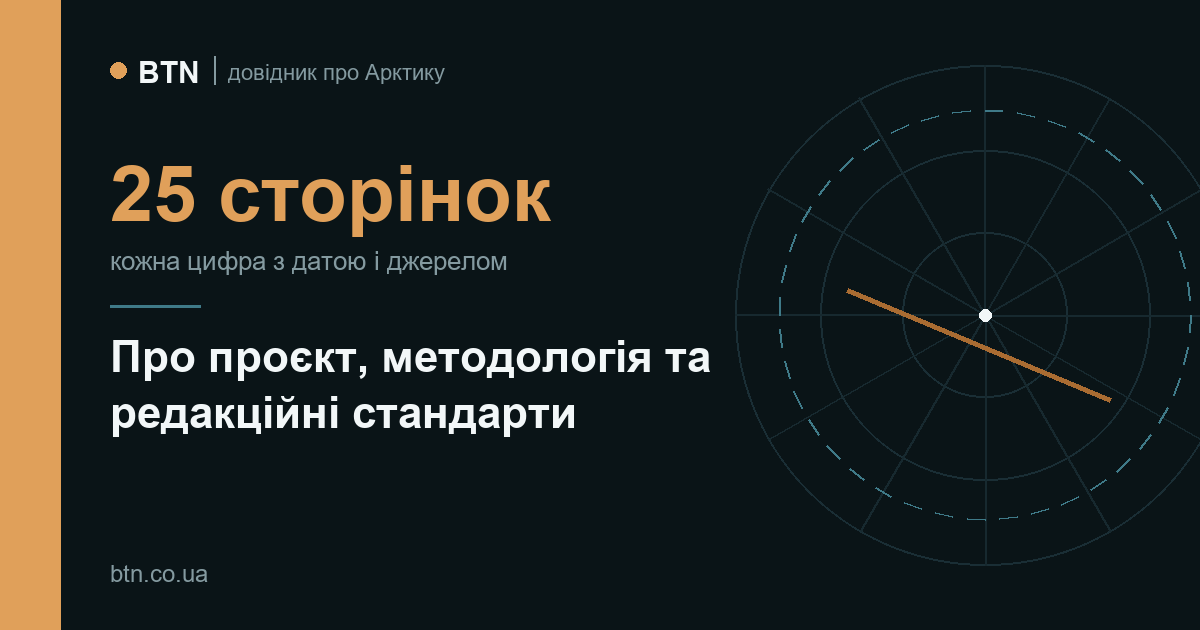
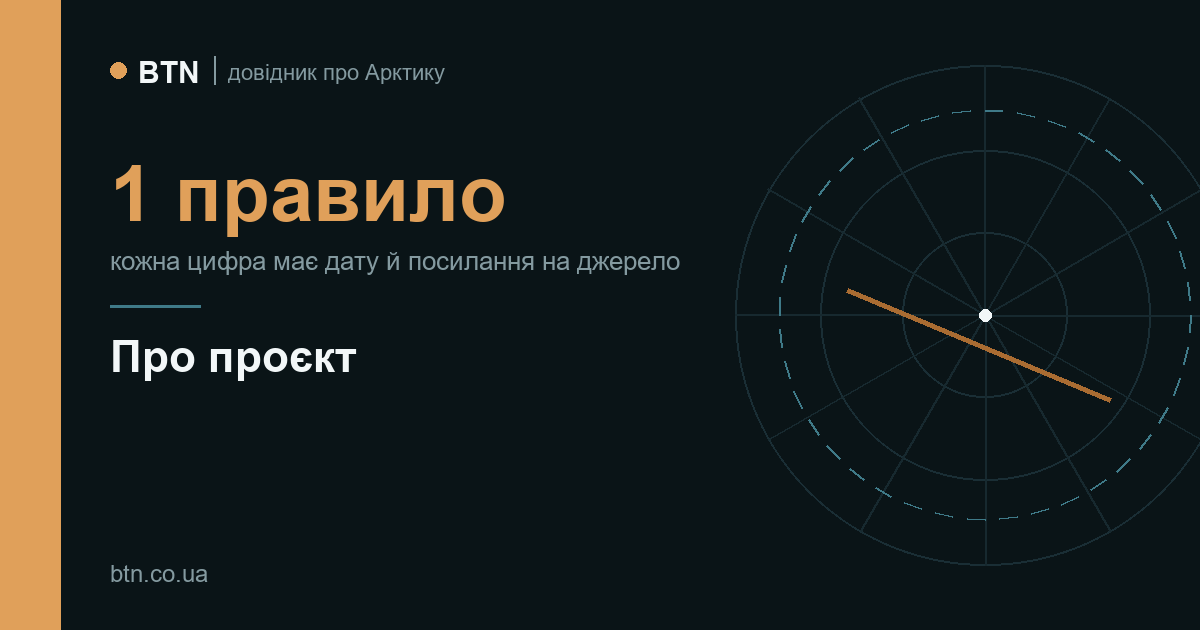
Про проєкт: коротка версія без службових інструкцій; прибрано заглушку на контактах і коментарі в robots.txt

Changed region(s): [[0.0925, 0.2413, 0.555, 0.4524], [0.0925, 0.6333, 0.4933, 0.6937], [0.3083, 0.5429, 0.5858, 0.6032]]

diff --git a/pro-proekt/index.html b/pro-proekt/index.html
@@ -3,12 +3,12 @@
 <head>
 <meta charset="utf-8">
 <meta name="viewport" content="width=device-width, initial-scale=1">
-<title>Про проєкт, методологія та редакційні стандарти — BTN, довідник</title>
-<meta name="description" content="Як «BTN» працює з даними: ієрархія джерел, обов'язкова дата біля кожного числа, розділ обмежень на кожній сторінці, порядок виправлень.">
+<title>Про проєкт — BTN, довідник</title>
+<meta name="description" content="BTN — україномовний довідник про Арктику. Як ми працюємо з джерелами, як виправляємо помилки і хто робить проєкт.">
 <link rel="canonical" href="https://btn.co.ua/pro-proekt/">
 <meta property="og:type" content="website">
-<meta property="og:title" content="Про проєкт, методологія та редакційні стандарти">
-<meta property="og:description" content="Ієрархія джерел, дата біля кожного числа, розділ обмежень на кожній сторінці, порядок виправлень.">
+<meta property="og:title" content="Про проєкт BTN">
+<meta property="og:description" content="Україномовний довідник про Арктику: як ми працюємо з джерелами і виправляємо помилки.">
 <meta property="og:url" content="https://btn.co.ua/pro-proekt/">
 <meta property="og:locale" content="uk_UA">
 <meta property="og:site_name" content="BTN">
@@ -23,7 +23,7 @@
 <link rel="stylesheet" href="/assets/style.css">
 <script type="application/ld+json">
 {"@context":"https://schema.org","@type":"AboutPage",
-"name":"Про проєкт, методологія та редакційні стандарти",
+"name":"Про проєкт BTN",
 "url":"https://btn.co.ua/pro-proekt/",
 "inLanguage":"uk",
 "isPartOf":{"@id":"https://btn.co.ua/#website"},
@@ -62,141 +62,29 @@
 <main class="wrap">
   <p class="crumbs"><a href="/">Головна</a><span>/</span>Про проєкт</p>
 
-  <h1>Про проєкт, методологія та редакційні стандарти</h1>
+  <h1>Про проєкт</h1>
 
-  <p class="lead">«BTN» — україномовний довідник про Арктику: економічний потенціал регіону, міжнародне право й геополітика, історія та становище корінних народів, стан довкілля.</p>
+  <p class="lead">BTN — україномовний довідник про Арктику: економіка регіону, міжнародне право й геополітика, корінні народи, довкілля. Назва складається з перших літер трьох арктичних регіонів: Баренц, Таймир, Нунавут.</p>
 
-  <div class="answer">
-    <span class="label">Головне правило</span>
-    <p>Кожне число на цьому сайті супроводжується <b>роком</b> і <b>назвою організації, що його опублікувала</b>, просто в реченні, яке це число несе. Кожне зовнішнє джерело — <b>клікабельне посилання</b> на конкретний документ, а не назва прозою. Кожна сторінка з цифрами має розділ <b>«Обмеження цих даних»</b>.</p>
-  </div>
-
-  <h2 id="nazva">Що означає BTN</h2>
-
-  <p><b>BTN — Баренц, Таймир, Нунавут.</b> Три точки, що задають охоплення проєкту: європейський сектор Арктики, сибірський і північноамериканський. Назва описує межі теми, а не позицію щодо неї.</p>
-
-  <p>Кожен із трьох секторів представлений матеріалами. Європейський — <a href="/heopolityka/shpitsberhen/">Шпіцберген</a> і <a href="/narody/saami/">саамські території</a> Норвегії, Швеції та Фінляндії. Сибірський — <a href="/dovkillia/norylsk-2020/">Норильськ</a>, де 29 травня 2020 року стався найбільший розлив нафтопродуктів в історії Арктики, і <a href="/narody/nenetski-pasovyshcha/">ненецькі пасовища</a>. Північноамериканський — <a href="/narody/inuity/">Нунавут</a>, створений 1 квітня 1999 року за врегулюванням земельних претензій інуїтів.</p>
-
-  <p>Арктика не вичерпується цими трьома. Гренландія, Аляска і Чукотка розглядаються в матеріалах про <a href="/narody/inuity/">інуїтів</a> і <a href="/narody/korinni-narody-arktyky/">корінні народи</a>. Три назви позначають розмах, а не перелік.</p>
-
-  <h2 id="navishcho">Навіщо цей проєкт</h2>
-
-  <p>Про Арктику українською мовою пишуть мало й переважно як про новинний привід. Довідкового шару — де можна перевірити конкретне число з конкретною датою — практично немає.</p>
-
-  <p>Водночас регіон прямо стосується українських інтересів: значна частина арктичного вуглеводневого потенціалу припадає на російський сектор, Північний морський шлях змінює логістику Євразії, а міжнародно-правові механізми, що діють в Арктиці, є тими самими, якими врегульовують морські спори деінде.</p>
-
-  <p>Ми заповнюємо саме довідковий шар: одна сторінка — одне питання, відповідь із числом і датою на початку, джерела в кінці.</p>
-
-  <h2 id="metodolohiia">Методологія</h2>
-
-  <h3>Ієрархія джерел</h3>
-  <p>Джерела беруться в такому порядку пріоритету:</p>
-  <ol>
-    <li><b>Первинні документи</b> — тексти конвенцій, судові рішення, офіційні реєстри, подання держав до міжнародних органів.</li>
-    <li><b>Рецензовані наукові публікації</b> та звіти державних наукових органів.</li>
-    <li><b>Профільні дослідницькі центри</b> й міжнародні організації.</li>
-    <li><b>Незалежні видання</b> — переважно для датування подій і цитат.</li>
-  </ol>
-  <p>Тип джерела зазначається в списку літератури під кожним матеріалом, щоб читач бачив, якого роду це доказ.</p>
-
-  <h3>Дати замість оцінок часу</h3>
-  <p>У текстах не вживаються слова <span class="lex">«нещодавно»</span>, <span class="lex">«зараз»</span>, <span class="lex">«останнім часом»</span>, <span class="lex">«на сьогодні»</span>, <span class="lex">«сьогодні»</span> та <span class="lex">«сучасний»</span> у значенні часу. Замість них стоїть конкретна дата або рік. Причина практична: недатоване число неможливо ані перевірити, ані коректно процитувати через рік.</p>
-
-  <p class="fine">Слова вище наведені як приклади забороненої лексики й позначені в розмітці спеціальним класом, щоб автоматична перевірка відрізняла згадку від ужитку.</p>
-
-  <h3>Розбіжності подаються, а не усуваються</h3>
-  <p>Коли джерела дають різні цифри, ми наводимо обидві з поясненням, чому вони різні. Приклад: обсяг витоку в Норильську 2020 року подають і як 21 тисячу тонн, і як 17,5 тисячі — перша цифра означає весь витік, друга лише ту частину, що потрапила у воду. Ми не обираємо зручнішу.</p>
-
-  <h3>Джерело, що є стороною подій, позначається</h3>
-  <p>Якщо дані публікує учасник описуваних подій, ми це зазначаємо і не подаємо такі дані як незалежно підтверджені. Приклад: статистику вантажообігу Північного морського шляху публікують російські операційні структури, і незалежної верифікації тоннажу немає — про що прямо сказано на відповідній сторінці.</p>
-
-  <h3>Обмеження на кожній сторінці</h3>
-  <p>Кожен матеріал із цифрами містить розділ, де сказано: що саме перевіряється надійно, що ні, і чого ми не знаємо. Це не формальність — це те, що дозволяє читачеві зважити решту тексту.</p>
-
-  <h2 id="standarty">Редакційні стандарти</h2>
-
-  <div class="tw">
-    <table>
-      <thead><tr><th>Ми робимо</th><th>Ми не робимо</th></tr></thead>
-      <tbody>
-        <tr>
-          <td>Наводимо факт із датою і джерелом</td>
-          <td>Не замінюємо факт оцінковим прикметником</td>
-        </tr>
-        <tr>
-          <td>Називаємо конкуруючі оцінки поіменно</td>
-          <td>Не вирішуємо наукових і правових суперечок за їхніх учасників</td>
-        </tr>
-        <tr>
-          <td>Описуємо послідовність подій</td>
-          <td>Не подаємо послідовність як доведений причинний зв'язок</td>
-        </tr>
-        <tr>
-          <td>Зазначаємо, чого дані не показують</td>
-          <td>Не екстраполюємо окремий випадок на весь регіон</td>
-        </tr>
-        <tr>
-          <td>Ставимо клікабельне посилання на кожне джерело</td>
-          <td>Не називаємо джерело лише прозою</td>
-        </tr>
-        <tr>
-          <td>Публікуємо матеріали під іменем автора</td>
-          <td>Не підписуємо матеріали лише назвою проєкту</td>
-        </tr>
-      </tbody>
-    </table>
-  </div>
-
-  <p>Матеріали не містять політичних рекомендацій і не пропонують читачеві висновків. Ми описуємо, що зафіксовано в джерелах.</p>
-
-  <div class="box">
-    <span class="label">Чому ми не називаємо себе нейтральними</span>
-    <p>Проєкт створено в Україні й українською мовою, і це впливає на вибір тем: ми пишемо про те, що стосується українських інтересів, частіше, ніж про те, що їх не стосується. Це редакційний вибір, і ми його не приховуємо.</p>
-    <p>Що це не змінює: правила поводження з цифрами й джерелами однакові для всіх тем. Вибір теми — редакційний, поводження з фактами — ні.</p>
-  </div>
-
-  <h2 id="dzherela">Основні джерела</h2>
-
-  <p>Матеріали спираються переважно на такі організації. Повний перелік із конкретними документами наводиться під кожною сторінкою.</p>
-
-  <div class="tw">
-    <table>
-      <thead><tr><th>Організація</th><th>Що беремо</th></tr></thead>
-      <tbody>
-        <tr><td><a href="https://arctic-council.org/">Арктична рада</a></td><td>Статус постійних учасників, робочі групи, офіційні документи</td></tr>
-        <tr><td><a href="https://www.un.org/depts/los/clcs_new/clcs_home.htm">Комісія ООН з меж континентального шельфу</a></td><td>Подання держав щодо шельфу</td></tr>
-        <tr><td><a href="https://nsidc.org/">National Snow and Ice Data Center</a></td><td>Супутникові дані про морський лід</td></tr>
-        <tr><td><a href="https://chnl.no/">Centre for High North Logistics</a></td><td>Незалежний облік транзитних рейсів</td></tr>
-        <tr><td><a href="https://www.dsa.no/">Норвезьке управління радіаційної та ядерної безпеки</a></td><td>Інвентаризація затоплених об'єктів</td></tr>
-        <tr><td><a href="https://www.chathamhouse.org/">Chatham House</a>, <a href="https://www.csis.org/">CSIS</a></td><td>Аналіз супутникових знімків</td></tr>
-        <tr><td><a href="https://iwgia.org/">IWGIA</a>, <a href="https://www.culturalsurvival.org/">Cultural Survival</a></td><td>Становище корінних народів</td></tr>
-        <tr><td><a href="https://www.oxfordenergy.org/">Oxford Institute for Energy Studies</a></td><td>Енергетичні проєкти й санкції</td></tr>
-      </tbody>
-    </table>
-  </div>
+  <h2 id="metodolohiia">Як ми працюємо</h2>
+  <ul>
+    <li>Кожне число має рік і назву організації, яка його опублікувала, а під матеріалом є посилання на джерело.</li>
+    <li>Спираємося насамперед на первинні документи, як-от <a href="https://www.un.org/depts/los/convention_agreements/texts/unclos/unclos_e.pdf">Конвенцію ООН з морського права</a>, і на звіти профільних організацій, як-от <a href="https://pubs.usgs.gov/fs/2008/3049/fs2008-3049.pdf">оцінку ресурсів Геологічної служби США 2008 року</a>. Новинні видання використовуємо для дат і цитат.</li>
+    <li>Коли джерела розходяться, наводимо обидві цифри й пояснюємо різницю.</li>
+    <li>Якщо дані публікує учасник подій, прямо про це пишемо.</li>
+    <li>На кожній сторінці з цифрами є розділ «Обмеження цих даних»: що перевіряється, а що ні.</li>
+  </ul>
+  <p id="dzherela">Список джерел із позначкою їхнього типу розміщено під кожним матеріалом.</p>
 
   <h2 id="vypravlennia">Виправлення</h2>
-
-  <p>Ми виправляємо помилки й фіксуємо це відкрито. Якщо у виправленні змінюється фактичне твердження, під матеріалом додається запис із датою і суттю зміни.</p>
-
-  <p>Якщо ви бачите помилку — неточне число, застарілі дані, зламане посилання або неправильно переданий зміст джерела — напишіть нам. Повідомлення з посиланням на джерело обробляються швидше.</p>
-
-  <p>Дата останнього перегляду вказана на кожній сторінці окремо. Числа переглядаються щоквартально.</p>
+  <p>Помилки виправляємо відкрито: якщо змінюється фактичне твердження, під матеріалом з'являється запис із датою і суттю зміни. Дата останнього оновлення стоїть на кожній сторінці.</p>
+  <p>Знайшли неточність або зламане посилання — <a href="/kontakty/">напишіть нам</a>, бажано з посиланням на джерело.</p>
 
   <h2 id="komanda">Хто робить проєкт</h2>
-
-  <p>Матеріали готує редакція BTN. Ми не підписуємо сторінки іменами окремих авторів, і це свідоме рішення: тексти тут не є авторськими колонками. Кожна сторінка — це зведення чужих опублікованих даних із зазначенням того, звідки взято кожне число. Внесок редактора полягає у відборі, звірці та перекладі, а не в оригінальному твердженні, тому підпис несе організація, а не особа.</p>
-
-  <p>Практичний наслідок для читача: перевіряти нас треба не за репутацією автора, а за джерелами, які названі під кожним матеріалом. Якщо джерело каже інше, ніж ми, — має рацію джерело, і ми чекаємо на <a href="/kontakty/">повідомлення про помилку</a>.</p>
-
-  <h3>Фінансування</h3>
-
-  <p>Проєкт не має зовнішнього фінансування, реклами, платних розміщень і комерційних партнерів. Ніхто не оплачує вибір тем і не погоджує висновки. Якщо це зміниться, зміна буде описана в цьому розділі з датою.</p>
-
-  <p>Ми не приховуємо, що відбір тем не є нейтральним: значна частина матеріалів стосується дій Росії в Арктиці, бо саме там зосереджені події, документовані міжнародними органами та незалежними дослідниками, і саме цей шар практично відсутній українською мовою. Відбір тем має напрям; виклад усередині кожної теми спирається на джерела, які ми називаємо, і читач може перевірити кожне число.</p>
+  <p>Матеріали готує редакція BTN. Сторінки не підписані окремими авторами, бо це довідкові зведення опублікованих даних, а не авторські колонки. На сайті немає реклами й платних матеріалів.</p>
 
   <h2 id="kontakt">Контакт</h2>
-  <p>Для повідомлень про помилки, пропозицій тем і запитів на коментар: <a href="/kontakty/">сторінка контактів</a>.</p>
+  <p>Повідомлення про помилки, пропозиції тем і запити: <a href="/kontakty/">сторінка контактів</a>.</p>
 
 </main>
 

diff --git a/kontakty/index.html b/kontakty/index.html
@@ -63,11 +63,6 @@
 
   <p class="lead">Найкорисніше, що ви можете нам надіслати, — це вказівка на помилку з посиланням на джерело. Такі повідомлення ми обробляємо першими.</p>
 
-  <div class="box">
-    <span class="label">Розділ до заповнення</span>
-    <p>Тут має бути робоча електронна адреса для повідомлень про помилки й окрема — для запитів медіа. Без них розділ про виправлення в <a href="/pro-proekt/#vypravlennia">методології</a> залишається декларацією.</p>
-  </div>
-
   <h2>Якщо ви знайшли помилку</h2>
   <p>Вкажіть, будь ласка, три речі: адресу сторінки, конкретне речення або число, і джерело, яке свідчить про інше. Ми звіряємо, виправляємо і додаємо під матеріалом запис із датою та суттю зміни.</p>
   <p>Ми виправляємо не лише неправильні числа, а й застарілі дані та зламані посилання. Дата останнього перегляду вказана внизу кожної сторінки.</p>
